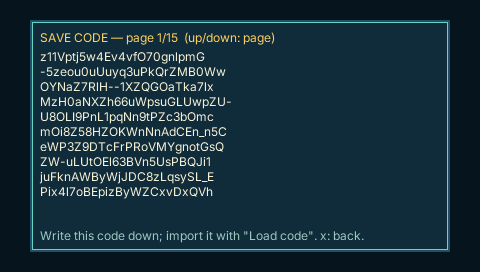
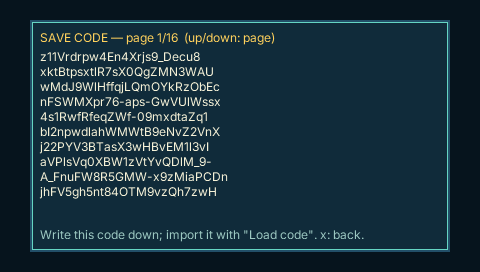
chore(vendor): move pocket-rpgkit to the seamless-handoff main
The kit now carries RPG Maker map scrolling, picture animation, timers and
the other second-batch commands, bounded world prefetch, a replaceable
interface text table and an opt-in seamless-v1 handoff. This game enables
none of the world features yet, so every journey, the failure tapes, the
chapters and the coverage report replay to the same terminal states.

The map schema identity moves with the kit's additive schema change, which
changes exported save codes; the save-code screenshot is refreshed for both
viewports. The name-input golden picks up the kit's text-table action
labels. Older saves still load through the kit's compatible identities.

Changed region(s): [[0.0625, 0.1765, 0.4688, 0.7353], [0.0625, 0.8529, 0.75, 0.8824], [0.3438, 0.1176, 0.375, 0.1471]]

diff --git a/tools/gi2a-journal-fixture.ts b/tools/gi2a-journal-fixture.ts
@@ -166,6 +166,7 @@ export async function captureGi2aJournal(
     rows: Math.ceil((charset.length + 3) / 10),
     maxLength: 15,
     title: "Name",
+    titleIsDefault: true,
     variable: "tux.rename.name",
     allowEmpty: false,
     phase: "edit",

diff --git a/docs/status.md b/docs/status.md
@@ -53,7 +53,7 @@ Per-action numbers come from the import coverage report,
 | Full-screen backgrounds (`change_bg` / `change_bg_char`, 19 uses) | Partial | Native blocking composite backgrounds and character portraits cover current ordering; unlike Tuxemon, an already-open backdrop is replaced rather than ignored ([details](../findings/GI1a.md)) |
 | Runtime sprite changes (`set_template`, 24 uses) | Partial | Walking appearance switching and restoration are native; 6 race selections save the walking baseline but do not dynamically update the battle combat sheet, and 1 fixed-false use is dropped ([coverage](../reports/G1-coverage.md)) |
 | Item icons | Done | 143 upstream `gfx/items/` icons are area-averaged 24×24→16×16 and baked into one declared `items` sheet (TILESET pak entry `ui:tile.items`). Every item's `sprite` points at its cell; 1 item without upstream art uses a shared placeholder cell. No current UI renders item sprites (shop, battle item menu, and item toast are text-only), so icons are structurally present but not yet displayed. |
-| Pixel-width text layout | Done | Dialog text wraps by rendered pixel width and continues onto additional pages instead of being clipped. Choice and list labels wrap, while fixed cells reduce their font size and scroll the focused value when needed |
+| Pixel-width text layout | Done | Dialog text wraps by rendered pixel width and continues onto additional pages instead of being clipped. Choice and list labels wrap, while fixed cells reduce their font size and scroll the focused value when needed. The kit's own interface words (save menu, name input, shop, battle readouts) come from a typed `uiText` table with English defaults that a project can override or switch at run time; this game uses the defaults |
 
 ## Battles
 
@@ -139,10 +139,10 @@ Per-action numbers come from the import coverage report,
 
 | Feature | Status | Notes |
 | --- | --- | --- |
-| Web | Done | Deployed to GitHub Pages from `main` after CI passes. The game pak is 48,248,176 B including the committed mainline audio and demo data; it was 66.8 MB before compact maps and indexed battle art. The browser renders at 2× density: fonts use native physical samples while tiles and sprites stay nearest-neighbour; compare the [Paper Town dialog](screenshots/web-density-paper-dialog.png) and [battle menu](screenshots/web-density-battle-menu.png). CI plays the journey in headless Chrome |
+| Web | Done | Deployed to GitHub Pages from `main` after CI passes. The game pak is 48,248,160 B including the committed mainline audio and demo data; it was 66.8 MB before compact maps and indexed battle art. The browser renders at 2× density: fonts use native physical samples while tiles and sprites stay nearest-neighbour; compare the [Paper Town dialog](screenshots/web-density-paper-dialog.png) and [battle menu](screenshots/web-density-battle-menu.png). CI plays the journey in headless Chrome |
 | Desktop (Linux, macOS) | Done | `bun run desktop`; the launcher enables ALSA when its development package is available and otherwise builds the silent host automatically |
 | PSP | Partial | `bun run build:psp` emits an EBOOT with a small boot pak and a seekable `assets.pak` sidecar containing all 263 maps, audio and battle art. The opening journey reaches Route 1 and matches the production replay under PPSSPP (checked on an earlier recording of the opening tape; not re-run on the current 3,990-frame tape); a 333 MHz firmware 6.61 hardware run reports 43–60 displayed fps. Map/texture-load stalls remain, emulator timing is not hardware evidence, and the full 107-battle mainline has not run on device. See the [PSP build instructions](../README.md#psp) |
-| Startup and frame time | Done | The desktop QuickJS benches enforce 250 ms startup and 50 ms frame budgets, reject a bundle built from different map shards, and verify the GB6 terminal hash. They mirror the production host: idle GC is armed after bundle evaluation and the `has_frame` check, then serviced from each frame's remaining 60 Hz budget. Across two strict 110,866-frame runs at each viewport, CPU-work maxima were 22.610/21.157 ms at 480×272 and 21.625/22.671 ms at 960×544; boundary-inclusive maxima were 29.593/24.142 ms and 25.951/32.505 ms. All four runs made five idle collections, with zero in-tick collections or frames over 50 ms. `G6_GC_MODE=auto` remains available as a diagnostic control. See [verification](verification.md) |
+| Startup and frame time | Done | The desktop QuickJS benches enforce 250 ms startup and 50 ms frame budgets, reject a bundle built from different map shards, and verify the GB6 terminal hash. They mirror the production host: idle GC is armed after bundle evaluation and the `has_frame` check, then serviced from each frame's remaining 60 Hz budget. Across two strict 110,866-frame runs at each viewport, CPU-work maxima were 21.260/22.796 ms at 480×272 and 22.576/30.727 ms at 960×544; boundary-inclusive maxima were 29.023/29.361 ms and 35.940/38.747 ms. All four runs made five idle collections, with zero in-tick collections or frames over 50 ms. `G6_GC_MODE=auto` remains available as a diagnostic control. See [verification](verification.md) |
 
 ## Verification and CI
 

diff --git a/README.md b/README.md
@@ -54,7 +54,7 @@ summary:
   same indexed, lazily loaded battle-image shards as combat.
 - **Performance:** compact map shards use 4,957,030 B instead of 10,131,297 B
   of canonical JSON, and indexed battle art plus its lazy database occupies
-  3,516,960 B in the pak. The Web game pak is 48,248,176 B; before compact
+  3,516,960 B in the pak. The Web game pak is 48,248,160 B; before compact
   maps and indexed battle art it was 66,791,328 B, measured on the tree just
   before day and night were added. The all-image battle encoding is
   2,206,076 B on disk and 13,394,688 B if every PSM_T8 texture were decoded,
